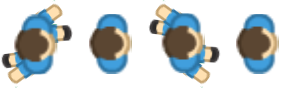
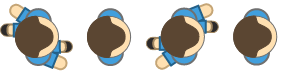
Adds the field and fix the player

diff --git a/bodies/player.js b/bodies/player.js
@@ -1,4 +1,4 @@
-let sprites, idle;
+let sprites, idles;
 function preload() {
   sprites = {
     right: loadImage("assets/player/p1.png"),
@@ -6,22 +6,28 @@ function preload() {
     up: loadImage("assets/player/p3.png"),
     down: loadImage("assets/player/p4.png")
   };
-  idle = loadImage("assets/player/s1.png");
+  idles = {
+    right: loadImage("assets/player/s1.png"),
+    left: loadImage("assets/player/s2.png"),
+    up: loadImage("assets/player/s3.png"),
+    down: loadImage("assets/player/s4.png")
+  };
 }
 
 class Player {
-  constructor(x, y) {
+  constructor(x, y, side) {
     this.position = createVector(x, y);
     this.velocity = createVector(0, 0);
     this.friction = 1;
     this.rotation = 0;
-    this.speed = 4;
-    this.width = 43;
-    this.height = 60;
+    this.speed = 3;
+    this.width = 73.55;
+    this.height = 73.04;
     this.frameWidth = 73.55;
-    this.frameHeight = 87.67;
+    this.frameHeight = 73.04;
+    this.frameSpeed = 8;
     this.sprites = {};
-
+    this.side = side;
     this.initSprites();
   }
 
@@ -33,7 +39,7 @@ class Player {
   draw() {
     noFill();
     strokeWeight(1);
-    stroke(250);
+    noStroke(250);
     return rect(this.position.x, this.position.y, this.width, this.height);
   }
 
@@ -42,30 +48,36 @@ class Player {
       sprites.right,
       this.frameWidth,
       this.frameHeight,
-      9,
-      4
+      this.frameSpeed,
+      3
     );
     this.sprites.left = new PlayerSpriteAnimator(
       sprites.left,
       this.frameWidth,
       this.frameHeight,
-      9,
-      4
+      this.frameSpeed,
+      3
     );
     this.sprites.up = new PlayerSpriteAnimator(
       sprites.up,
       this.frameHeight,
       this.frameWidth,
-      9,
+      this.frameSpeed,
       4
     );
     this.sprites.down = new PlayerSpriteAnimator(
       sprites.down,
       this.frameHeight,
       this.frameWidth,
-      9,
+      this.frameSpeed,
       4
     );
+  }
+
+  updateRun(side) {
+    this.side = side;
+    this.sprites[side].draw(this.position.x, this.position.y);
+    this.sprites[side].update();
   }
 
   run() {
@@ -75,8 +87,8 @@ class Player {
       this.width = this.frameWidth;
       this.height = this.frameHeight;
 
-      this.sprites.left.draw(this.position.x, this.position.y);
-      this.sprites.left.update();
+      this.updateRun("left");
+
       return;
     }
 
@@ -86,8 +98,8 @@ class Player {
       this.width = this.frameWidth;
       this.height = this.frameHeight;
 
-      this.sprites.right.draw(this.position.x, this.position.y);
-      this.sprites.right.update();
+      this.updateRun("right");
+
       return;
     }
 
@@ -97,8 +109,8 @@ class Player {
       this.width = this.frameHeight;
       this.height = this.frameWidth;
 
-      this.sprites.up.draw(this.position.x, this.position.y);
-      this.sprites.up.update();
+      this.updateRun("up");
+
       return;
     }
 
@@ -108,15 +120,19 @@ class Player {
       this.width = this.frameHeight;
       this.height = this.frameWidth;
 
-      this.sprites.down.draw(this.position.x, this.position.y);
-      this.sprites.down.update();
+      this.updateRun("down");
+
       return;
     }
 
-    this.width = 43;
-    this.height = 60;
-
-    image(idle, this.position.x, this.position.y, this.width, this.height);
+    // Draw the current idle position
+    image(
+      idles[this.side],
+      this.position.x,
+      this.position.y,
+      this.width,
+      this.height
+    );
   }
 }
 
@@ -145,7 +161,7 @@ class PlayerSpriteAnimator {
 
     const col = Math.floor(this.currentFrame % this.framesPerRow);
 
-    image(
+    return image(
       this.image,
       x,
       y,

diff --git a/index.js b/index.js
@@ -2,15 +2,21 @@ let player;
 const WIDTH = 1400;
 const HEIGHT = 800;
 
+let field;
+function initialize(){
+  //Draw the field
+  image(field, 0, 0, WIDTH, HEIGHT);
+}
+
 function setup() {
   createCanvas(WIDTH, HEIGHT);
 
-  player = new Player(0, 0);
-
+  field = loadImage("assets/field/field.png");
+  player = new Player(0, 0, 'right');
 }
 
 function draw() {
-  background("#32d978");
+  initialize();
 
   player.update();
 }
